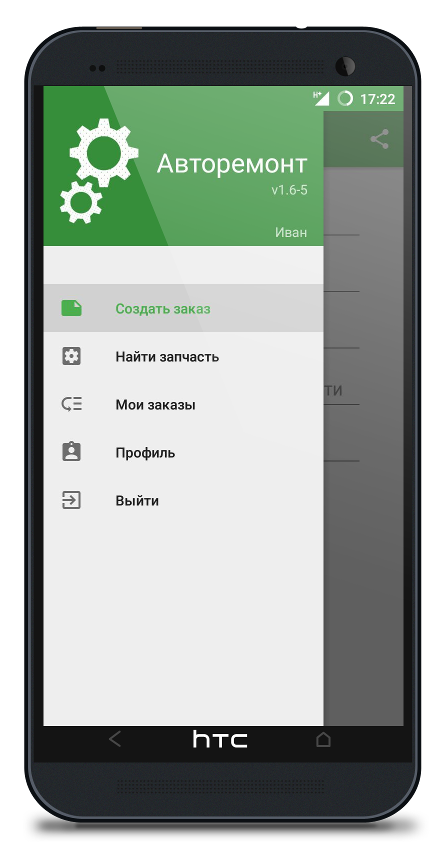
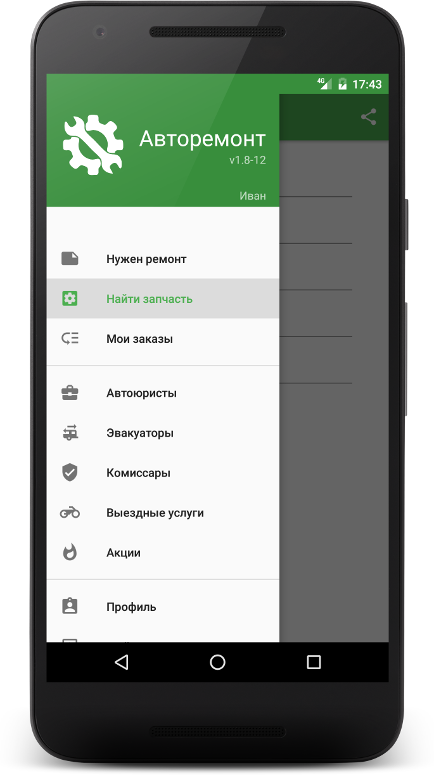
main site style
Добавил новые скирншоты
Убрал что только в Якутске
Добавил новое видео

diff --git a/views/layouts/new-style.php b/views/layouts/new-style.php
@@ -85,7 +85,7 @@
                 <div class="col-sm-7 col-sm-offset-1 pull-right">
                     <h1 class="logo"><img src="myassets/images/logowb.png">Авторемонт</h1>
 
-                    <h1 class="slogan">Ремонт и запчасти для Вашего авто в Якутске</h1>
+                    <h1 class="slogan">Ремонт и запчасти для Вашего авто</h1>
 
                     <div class="utp">Экономь до 30% на ремонте своего авто и запчастях через мобильное приложение
                         Авторемонт
@@ -99,7 +99,7 @@
                 </div>
                 <div class="col-sm-4 featured hidden-sm hidden-xs">
                     <img src="myassets/screenshots/main-phone.png" class="intro-screen"
-                         data-animation="bounceInUp" data-wow-delay="0.5s" width="400" height="775"
+                         data-animation="bounceInUp" data-wow-delay="0.5s" height="775"
                          alt="Image Not Found"/>
                 </div>
             </div>
@@ -258,8 +258,7 @@
                     </div>
                     <div id="builder-module-547dfb11b1d34" class="module rich-text">
                         <div class="video-container">
-                            <iframe src="http://player.vimeo.com/video/166306613?title=0&#038;byline=0&#038;portrait=0"
-                                    allowfullscreen></iframe>
+                            <iframe width="1280" height="720" src="https://www.youtube.com/embed/5eeWx01En5o?rel=0&amp;controls=0&amp;showinfo=0" frameborder="0" allowfullscreen></iframe>
                         </div>
                     </div>
                 </div>
@@ -272,20 +271,23 @@
                     <h2>СКРИНШОТЫ</h2>
 
                     <div id="screenshots-slider168740082" class="screenshots-slider owl-carousel">
-                        <a class="item" href="myassets/screenshots/1.jpg" title="App Screen">
-                            <img src="myassets/screenshots/1.jpg" alt="screen" width="250" height="444"/>
+                        <a class="item" href="myassets/screenshots/sreenshots/1.png" title="App Screen">
+                            <img src="myassets/screenshots/sreenshots/thumb/1.png" alt="screen" width="250"/>
                         </a>
-                        <a class="item" href="myassets/screenshots/2.jpg" title="App Screen">
-                            <img src="myassets/screenshots/2.jpg" alt="screen" width="250" height="444"/>
+                        <a class="item" href="myassets/screenshots/sreenshots/2.png" title="App Screen">
+                            <img src="myassets/screenshots/sreenshots/thumb/2.png" alt="screen" width="250"/>
                         </a>
-                        <a class="item" href="myassets/screenshots/3.jpg" title="App Screen">
-                            <img src="myassets/screenshots/3.jpg" alt="screen" width="250" height="444"/>
+                        <a class="item" href="myassets/screenshots/sreenshots/3.png" title="App Screen">
+                            <img src="myassets/screenshots/sreenshots/thumb/3.png" alt="screen" width="250"/>
                         </a>
-                        <a class="item" href="myassets/screenshots/4.jpg" title="App Screen">
-                            <img src="myassets/screenshots/4.jpg" alt="screen" width="250" height="444"/>
+                        <a class="item" href="myassets/screenshots/sreenshots/4.png" title="App Screen">
+                            <img src="myassets/screenshots/sreenshots/thumb/4.png" alt="screen" width="250"/>
                         </a>
-                        <a class="item" href="myassets/screenshots/5.jpg" title="App Screen">
-                            <img src="myassets/screenshots/5.jpg" alt="screen" width="250" height="444"/>
+                        <a class="item" href="myassets/screenshots/sreenshots/5.png" title="App Screen">
+                            <img src="myassets/screenshots/sreenshots/thumb/5.png" alt="screen" width="250"/>
+                        </a>
+                        <a class="item" href="myassets/screenshots/sreenshots/6.png" title="App Screen">
+                            <img src="myassets/screenshots/sreenshots/thumb/6.png" alt="screen" width="250"/>
                         </a>
                     </div>
                 </div>
@@ -299,25 +301,25 @@
                         <li data-animation="bounceIn">
                             <i class="icon icon-cloud-download"></i>
 
-                            <h3 class="wow">3369</h3>
+                            <h3 class="wow">7022</h3>
                             <h4>Скачиваний</h4>
                         </li>
                         <li data-animation="bounceIn" data-wow-delay="0.4s">
                             <i class="icon icon-star"></i>
 
-                            <h3 class="wow">36</h3>
+                            <h3 class="wow">60</h3>
                             <h4>Оценок с наивысшим рейтингом</h4>
                         </li>
                         <li data-animation="bounceIn" data-wow-delay="0.8s">
                             <i class="icon icon-like"></i>
 
-                            <h3 class="wow">77</h3>
-                            <h4>Лайков</h4>
+                            <h3 class="wow">1000</h3>
+                            <h4>Заказов в месяц</h4>
                         </li>
                         <li data-animation="bounceIn" data-wow-delay="1.2s">
                             <i class="icon icon-clock"></i>
 
-                            <h3 class="wow">741</h3>
+                            <h3 class="wow">1438</h3>
                             <h4>Часов сэкономлено</h4>
                         </li>
                     </ul>
